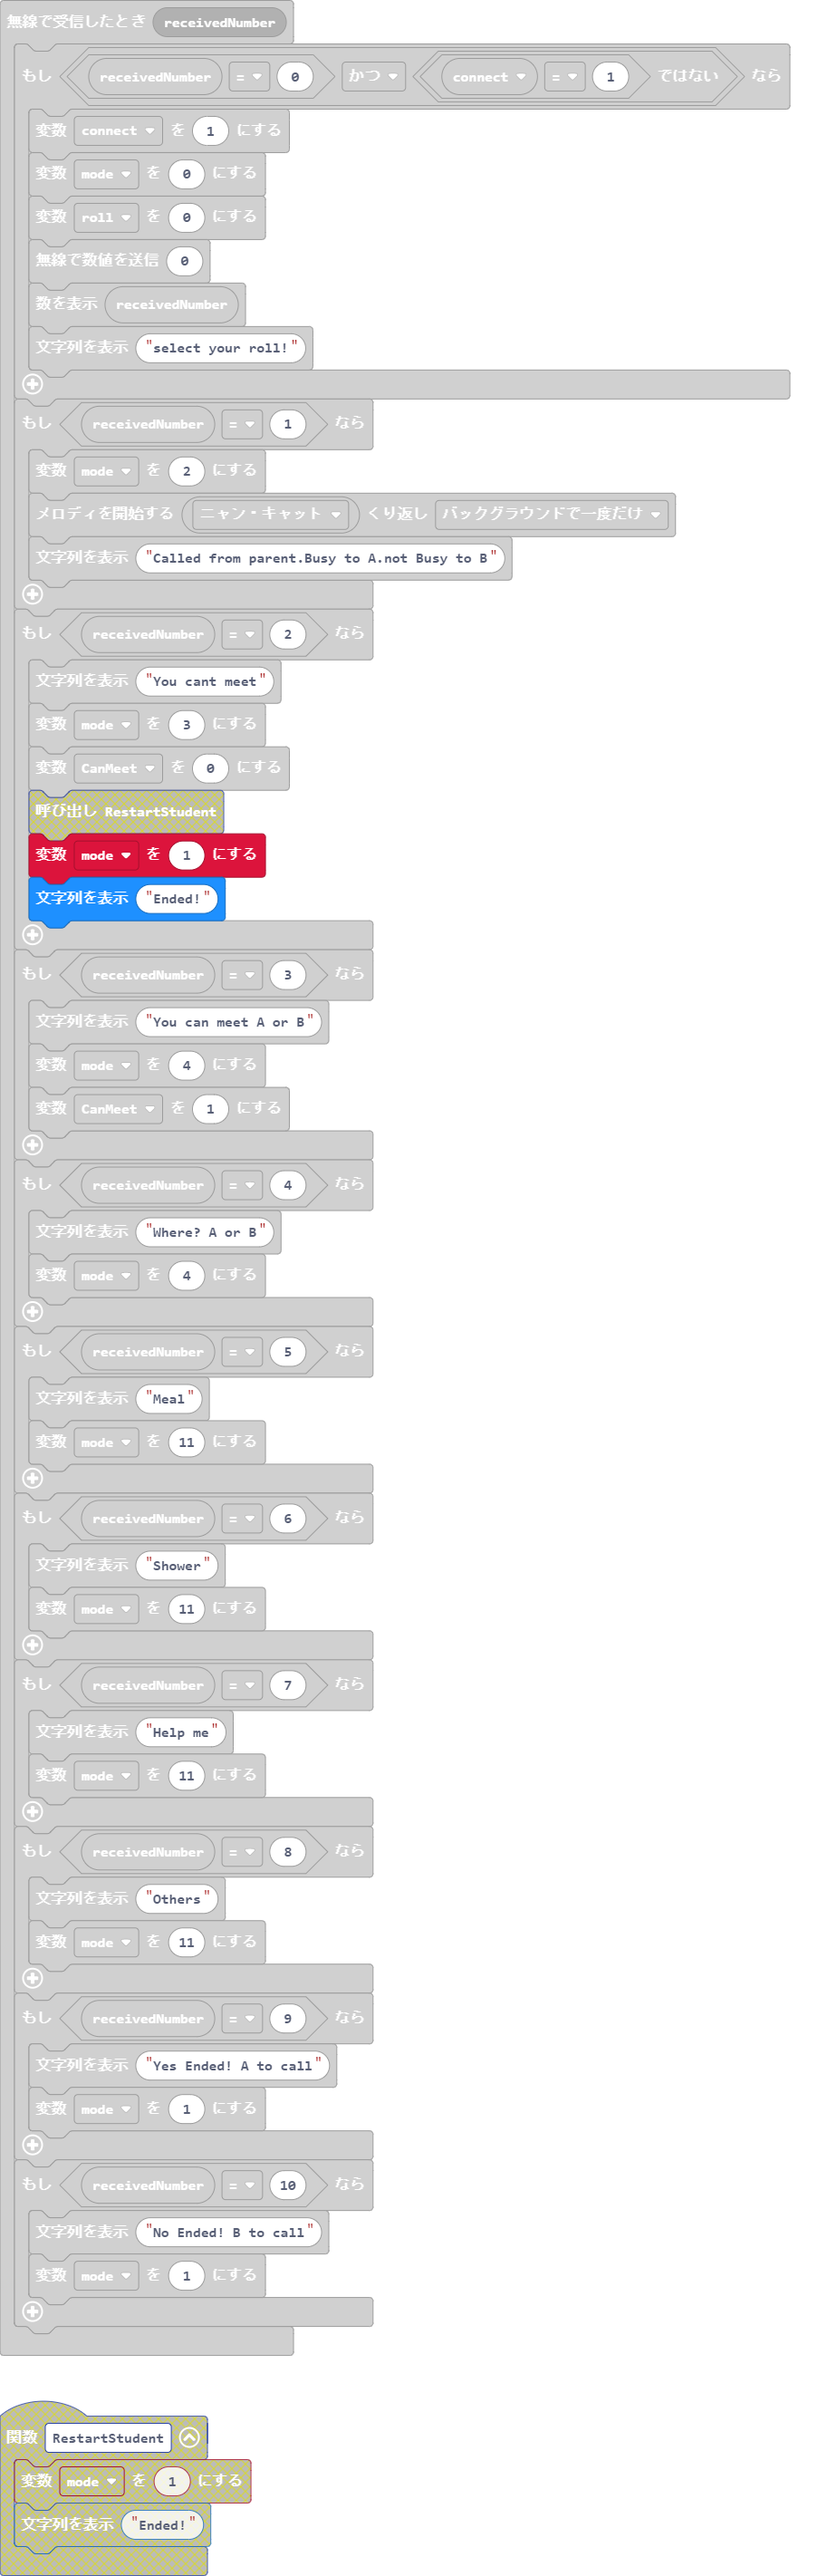
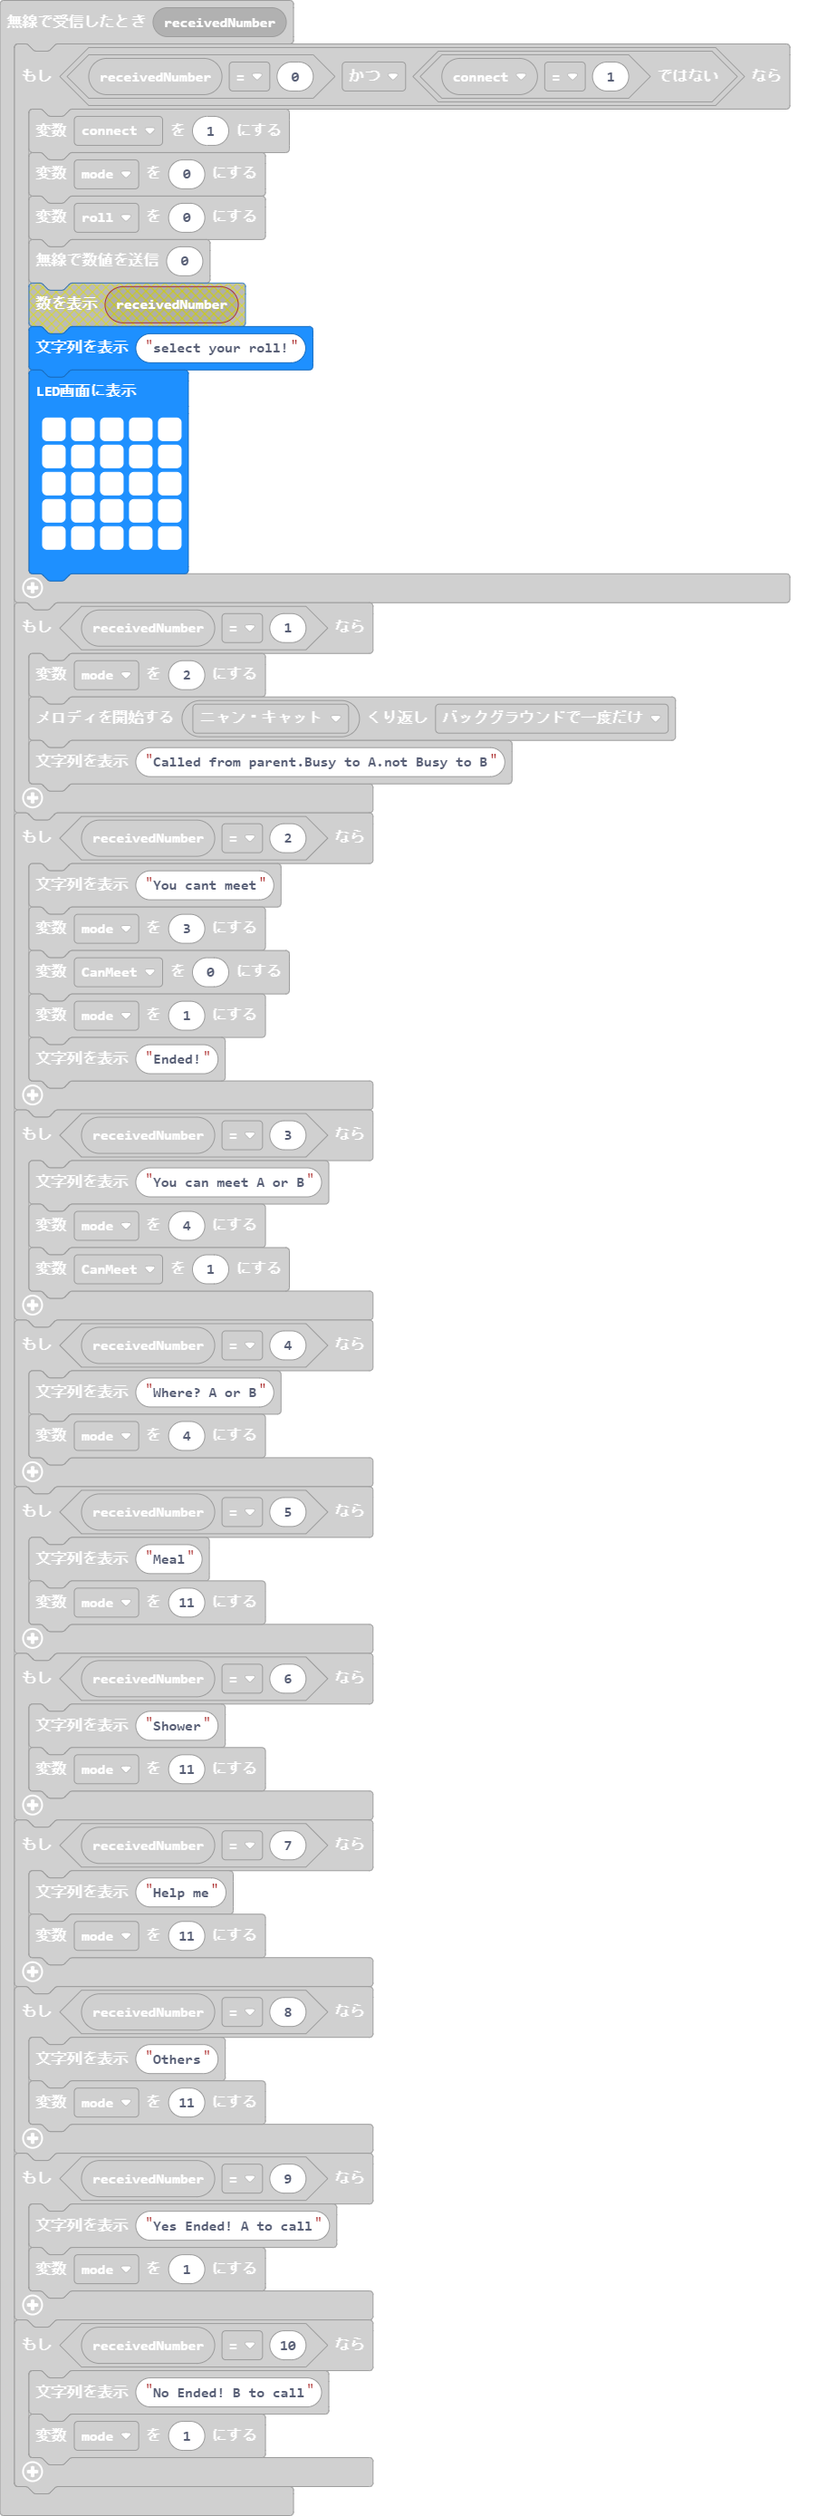
更新 pxt.json, main.blocks, main.ts, main.py

Changed region(s): [[0.0, 0.0, 0.9394, 1.0], [0.4848, 0.0, 0.8788, 0.0619], [0.4242, 0.031, 0.4545, 0.0619]]

diff --git a/main.ts b/main.ts
@@ -4,7 +4,13 @@ radio.onReceivedNumber(function (receivedNumber) {
         mode = 0
         roll = 0
         radio.sendNumber(0)
-        basic.showNumber(receivedNumber)
+        basic.showLeds(`
+            # # # # #
+            # # # # #
+            # # # # #
+            # # # # #
+            # # # # #
+            `)
         basic.showString("select your roll!")
     }
     if (receivedNumber == 1) {

diff --git a/main.py b/main.py
@@ -1,0 +1,147 @@
+def on_received_number(receivedNumber):
+    global connect, mode, roll, CanMeet
+    if receivedNumber == 0 and not (connect == 1):
+        connect = 1
+        mode = 0
+        roll = 0
+        radio.send_number(0)
+        basic.show_number(receivedNumber)
+        basic.show_string("select your roll!")
+    if receivedNumber == 1:
+        mode = 2
+        music.start_melody(music.built_in_melody(Melodies.NYAN),
+            MelodyOptions.ONCE_IN_BACKGROUND)
+        basic.show_string("Called from parent.Busy to A.not Busy to B")
+    if receivedNumber == 2:
+        basic.show_string("You cant meet")
+        mode = 3
+        CanMeet = 0
+        mode = 1
+        basic.show_string("Ended!")
+    if receivedNumber == 3:
+        basic.show_string("You can meet A or B")
+        mode = 4
+        CanMeet = 1
+    if receivedNumber == 4:
+        basic.show_string("Where? A or B")
+        mode = 4
+    if receivedNumber == 5:
+        basic.show_string("Meal")
+        mode = 11
+    if receivedNumber == 6:
+        basic.show_string("Shower")
+        mode = 11
+    if receivedNumber == 7:
+        basic.show_string("Help me")
+        mode = 11
+    if receivedNumber == 8:
+        basic.show_string("Others")
+        mode = 11
+    if receivedNumber == 9:
+        basic.show_string("Yes Ended! A to call")
+        mode = 1
+    if receivedNumber == 10:
+        basic.show_string("No Ended! B to call")
+        mode = 1
+radio.on_received_number(on_received_number)
+
+def on_button_pressed_a():
+    global Apushed, roll, mode
+    Apushed = 1
+    if mode == 0 and Apushed == 1:
+        Apushed = 0
+        basic.show_string("Parent A to call")
+        roll = 1
+        mode = 1
+    if (mode == 1 or mode == 1) and roll == 1 and Apushed == 1:
+        Apushed = 0
+        mode = 2
+        radio.send_number(1)
+        basic.show_string("Called")
+    if mode == 2 and roll == 0 and Apushed == 1:
+        Apushed = 0
+        mode = 3
+        radio.send_number(2)
+        music.stop_melody(MelodyStopOptions.ALL)
+        basic.show_string("Sand")
+    if mode == 3 and roll == 1 and Apushed == 1:
+        Apushed = 0
+        mode = 4
+        radio.send_number(4)
+        basic.show_string("Sand")
+    if mode == 4 and roll == 1 and Apushed == 1:
+        Apushed = 0
+        mode = 5
+        basic.show_string("A or B")
+    if mode == 5 and roll == 1 and Apushed == 1:
+        Apushed = 0
+        mode = 7
+        radio.send_number(5)
+        basic.show_string("Meal")
+        mode = 11
+    if mode == 6 and roll == 1 and Apushed == 1:
+        Apushed = 0
+        mode = 8
+        radio.send_number(6)
+        basic.show_string("Shower")
+        mode = 11
+    if mode == 11 and roll == 0 and Apushed == 1:
+        Apushed = 0
+        radio.send_number(9)
+        basic.show_string("Yes")
+        mode = 1
+input.on_button_pressed(Button.A, on_button_pressed_a)
+
+def on_button_pressed_b():
+    global Bpushed, roll, mode
+    Bpushed = 1
+    if mode == 0 and Bpushed == 1:
+        Bpushed = 0
+        roll = 0
+        mode = 1
+        basic.show_string("Kid")
+    if mode == 2 and roll == 0 and Bpushed == 1:
+        Bpushed = 0
+        mode = 3
+        radio.send_number(3)
+        music.stop_melody(MelodyStopOptions.ALL)
+        basic.show_string("Sand")
+        mode = 1
+    if mode == 4 and roll == 1 and Bpushed == 1:
+        Bpushed = 0
+        mode = 6
+        basic.show_string("A or B")
+    if mode == 5 and roll == 1 and Bpushed == 1:
+        Bpushed = 0
+        mode = 9
+        radio.send_number(7)
+        basic.show_string("Help me")
+        mode = 11
+    if mode == 6 and roll == 1 and Bpushed == 1:
+        Bpushed = 0
+        mode = 10
+        radio.send_number(8)
+        basic.show_string("Other")
+        mode = 11
+    if mode == 11 and roll == 0 and Bpushed == 1:
+        Bpushed = 0
+        radio.send_number(10)
+        basic.show_string("No")
+        mode = 1
+input.on_button_pressed(Button.B, on_button_pressed_b)
+
+def on_background_melody_ended():
+    if mode == 2 and roll == 0:
+        music.start_melody(music.built_in_melody(Melodies.NYAN),
+            MelodyOptions.ONCE_IN_BACKGROUND)
+music.on_event(MusicEvent.BACKGROUND_MELODY_ENDED,
+    on_background_melody_ended)
+
+Bpushed = 0
+Apushed = 0
+CanMeet = 0
+roll = 0
+mode = 0
+connect = 0
+radio.set_group(144)
+radio.send_number(0)
